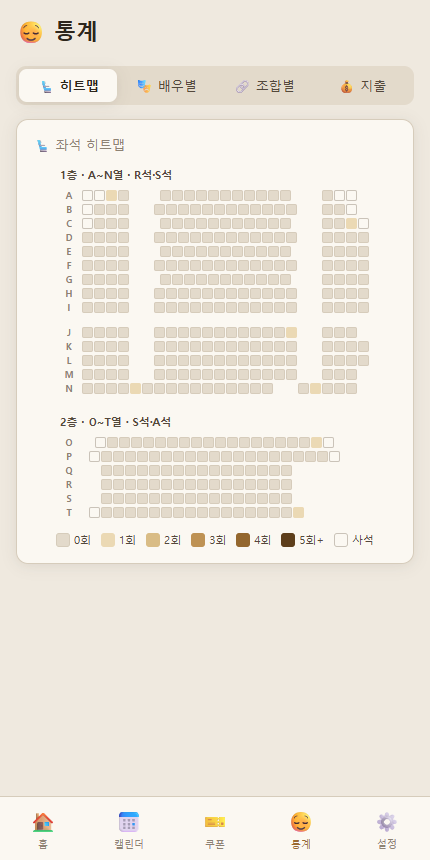
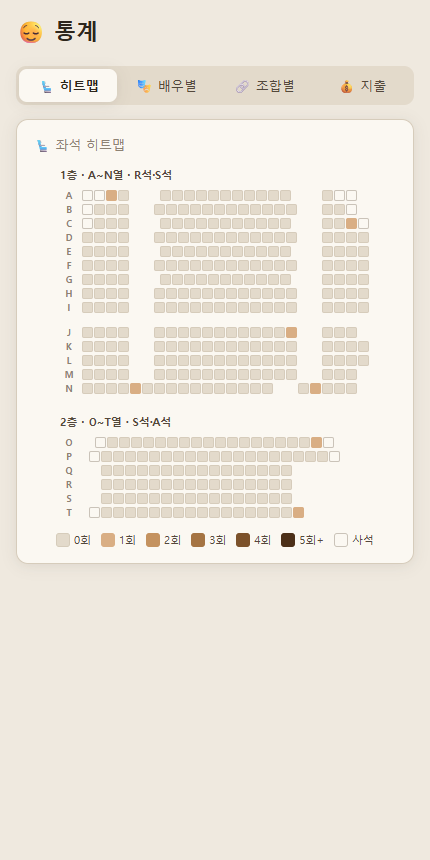
날골 v7: 조합별 배역 풀 이름·배역별 줄 세우기, 히트맵 밀크 브라운

diff --git a/narcissus2026/index.html b/narcissus2026/index.html
@@ -23,7 +23,7 @@
     --border:#D6CCBB;--text:#2E261E;--text1:#2E261E;--text2:#54483B;--text3:#8E8273;
     --accent:#9A6A2F;--accent2:#5A3E2B;--accent-light:rgba(154,106,47,0.10);
     --danger:#c43c3c;--success:#3a7a4e;--star:#B07A34;
-    --seat1:#EBD9B4;--seat2:#D9BC85;--seat3:#BE9254;--seat4:#94672E;--seat5:#5E3F1C;
+    --seat1:#D9AE84;--seat2:#C4925F;--seat3:#A57443;--seat4:#7C522B;--seat5:#4C3018;
     --shadow:0 2px 14px rgba(46,38,30,0.10);--radius:12px;--tab-h:64px;
   }
   [data-theme="dark"]{
@@ -32,7 +32,7 @@
     --accent:#D6A75E;--accent2:#C8A27A;--accent-light:#2E2618;
     --danger:#ee6666;--success:#44aa66;--star:#C8A27A;
     --shadow:0 2px 12px rgba(0,0,0,0.55);
-    --seat1:#4A3820;--seat2:#5E4626;--seat3:#8A6634;--seat4:#B98C4C;--seat5:#E3C287;
+    --seat1:#5E4630;--seat2:#7C5A3C;--seat3:#9C744E;--seat4:#BF9468;--seat5:#E3BE98;
   }
   [data-theme="dark"] .next-show-card{background:linear-gradient(135deg,#3A2C1A 0%,#120E09 100%);color:#fff;}
   *{box-sizing:border-box;margin:0;padding:0;}
@@ -160,6 +160,8 @@
   .role-section-title{font-size:12px;font-weight:700;color:var(--text3);padding:6px 8px 2px;}
 
   /* 페어 드롭다운 필터 */
+  .pair-sort{cursor:pointer;white-space:nowrap;}
+  .pair-sort.on{color:var(--accent);font-weight:700;}
   .pair-filter-grid{display:grid;grid-template-columns:1fr 1fr;gap:8px;margin-bottom:12px;}
   .pair-filter-item{display:flex;flex-direction:column;gap:3px;}
   .pair-filter-label{font-size:11px;color:var(--text3);font-weight:600;}
@@ -436,7 +438,7 @@
   <div id="stats-section-pairs" style="display:none;">
     <div class="card">
       <div class="card-title">🔗 조합별 통계</div>
-      <div style="font-size:11px;color:var(--text3);text-align:center;margin:0 0 10px;">나르치스×골드문트 — 스케줄에 등장하는 모든 조합. 행을 누르면 회차가 펼쳐집니다.</div>
+      <div style="font-size:11px;color:var(--text3);text-align:center;margin:0 0 10px;">나르치스×골드문트 — 스케줄에 등장하는 모든 조합. 배역 이름을 누르면 그 배역 순으로 모이고, 행을 누르면 회차가 펼쳐집니다.</div>
       <div id="stats-pairs-result"></div>
     </div>
   </div>
@@ -3023,8 +3025,12 @@ function queryPairStats() {
     return;
   }
 
-  // 정렬: 스케줄 0회 최하단 / 관람 많은 순 / 스케줄 많은 순
+  // 정렬: 고른 배역의 배우 순(캐스트 순)으로 묶고, 그 안에서는 스케줄 0회 최하단 / 관람 많은 순 / 스케줄 많은 순
+  // 배역을 안 골랐으면(회차·관람 머리글) 묶지 않고 많은 순만
+  const sortRole = ROLES.find(r => r.key === pairSortRole);
+  const actorPos = c => { const i = sortRole.actors.indexOf(c.casting[sortRole.key] || ''); return i < 0 ? 999 : i; };
   list.sort((a, b) => {
+    if (sortRole && actorPos(a) !== actorPos(b)) return actorPos(a) - actorPos(b);
     if ((a.scheduleCount === 0) !== (b.scheduleCount === 0)) return a.scheduleCount === 0 ? 1 : -1;
     if (b.seenCount !== a.seenCount) return b.seenCount - a.seenCount;
     return b.scheduleCount - a.scheduleCount;
@@ -3033,8 +3039,11 @@ function queryPairStats() {
   const totalSched = list.reduce((s, c) => s + c.scheduleCount, 0);
   const totalSeen  = list.reduce((s, c) => s + c.seenCount, 0);
 
-  const SHORT = { narziss:'나르', goldmund:'골드' };
-  const headers = ROLES.map(r => `<th>${SHORT[r.key]||r.label}</th>`).join('') + '<th style="text-align:right;">회차</th><th style="text-align:center;">관람</th>';
+  // 머리글을 누르면 그 배역으로 줄 세운다 — 배역 이름은 줄이지 않는다(11/18)
+  const SHORT = { narziss:'나르치스', goldmund:'골드문트' };   // 줄임말 안 쓴다 — 검사기(check_html)가 키 정합성을 보니 자리는 둔다
+  const on = k => pairSortRole === k;
+  const headers = ROLES.map(r => `<th class="pair-sort${on(r.key) ? ' on' : ''}" onclick="setPairSort('${r.key}')">${SHORT[r.key]||r.label}${on(r.key) ? ' ▾' : ''}</th>`).join('')
+    + `<th class="pair-sort${on('') ? ' on' : ''}" style="text-align:right;" onclick="setPairSort('')">회차</th><th class="pair-sort${on('') ? ' on' : ''}" style="text-align:center;" onclick="setPairSort('')">관람${on('') ? ' ▾' : ''}</th>`;
   const comboKey = c => ROLES.map(r => c.casting[r.key]||'').join('|');
   const rows = list.map((c, idx) => {
     const isGrey = c.scheduleCount === 0;
@@ -3069,6 +3078,15 @@ function queryPairStats() {
 
   el.innerHTML = `<div style="font-size:12px;color:var(--text3);margin-bottom:8px;">${list.length}가지 조합 · 스케줄 ${totalSched}회 · 내 관람 ${totalSeen}회</div>
     <div style="overflow-x:auto;"><table class="stats-table" style="font-size:11px;"><tr>${headers}</tr>${rows}</table></div>`;
+}
+
+// 조합별 줄 세우기 — 배역 key, '' 이면 많은 순. 기기에 기억한다
+const PAIR_SORT_KEY = 'narcissus_pairSort';
+let pairSortRole = (() => { try { return localStorage.getItem(PAIR_SORT_KEY) || ''; } catch { return ''; } })();
+function setPairSort(k) {
+  pairSortRole = k;
+  try { localStorage.setItem(PAIR_SORT_KEY, k); } catch {}
+  queryPairStats();
 }
 
 function togglePairDates(rowId, tr) {

diff --git a/narcissus2026/selftest.html b/narcissus2026/selftest.html
@@ -607,6 +607,24 @@ t('V. 이벤트', '12/26 무대인사는 15시에만 걸린다', () => {
   const e = W.getEvents().find(x => x.name === '첫 공연 무대인사' && x.startDate === '2026-12-26');
   eq([W.eventHitsSession(e, '2026-12-26', '15:00'), W.eventHitsSession(e, '2026-12-26', '19:00')], [true, false]);
 });
+t('S. 통계', '조합별: 배역 풀 이름 머리글, 누른 배역의 캐스트 순으로 모인다', () => {
+  const prev = localStorage.getItem('narcissus_pairSort');
+  try {
+    const col = i => [...W.document.querySelectorAll('#stats-pairs-result tr[onclick] td:nth-child(' + i + ')')].map(x => x.textContent);
+    const runs = a => a.filter((x, i) => x !== a[i - 1]);
+    W.setPairSort('goldmund');
+    const th = [...W.document.querySelectorAll('#stats-pairs-result th')].map(x => x.textContent.trim());
+    eq(th.slice(0, 2), ['나르치스', '골드문트 ▾']);
+    eq(runs(col(2)).filter(x => x !== '-'), ['김현진', '동현', '박경호', '김지온'], '골드문트 순');
+    W.setPairSort('narziss');
+    eq(runs(col(1)).filter(x => x !== '-'), ['문성일', '임별', '박유덕', '최호승'], '나르치스 순');
+    W.setPairSort('');
+    const n = col(3).map(Number);
+    ok(n.every((x, i) => !i || x <= n[i - 1]), '안 고르면 회차 많은 순');
+  } finally {
+    if (prev === null) localStorage.removeItem('narcissus_pairSort'); else localStorage.setItem('narcissus_pairSort', prev);
+  }
+});
 t('V. 이벤트', '날짜 패널에 이벤트 시간이 함께 나온다', () => {
   W.renderCalDayPanel('2026-12-26', W.getSchedule().filter(s => s.date === '2026-12-26'), new Set(), new Set(), []);
   const html = W.document.getElementById('cal-day-records').innerHTML;

diff --git a/narcissus2026/sw.js b/narcissus2026/sw.js
@@ -1,4 +1,4 @@
-const CACHE_NAME = 'narcissus2026-v5';
+const CACHE_NAME = 'narcissus2026-v7';
 const CACHE_PREFIX = 'narcissus2026-';   // 같은 origin 의 다른 앱 캐시는 건드리지 않는다
 const NO_CACHE = /[?&]t=\d+/;   // 스케줄·이벤트 json 은 매번 새 주소라 캐시에 쌓지 않는다
 const BASE = self.location.pathname.replace(/\/sw\.js$/, '');   // 어느 폴더에 두어도 동작 (otk-test 사본 포함)
